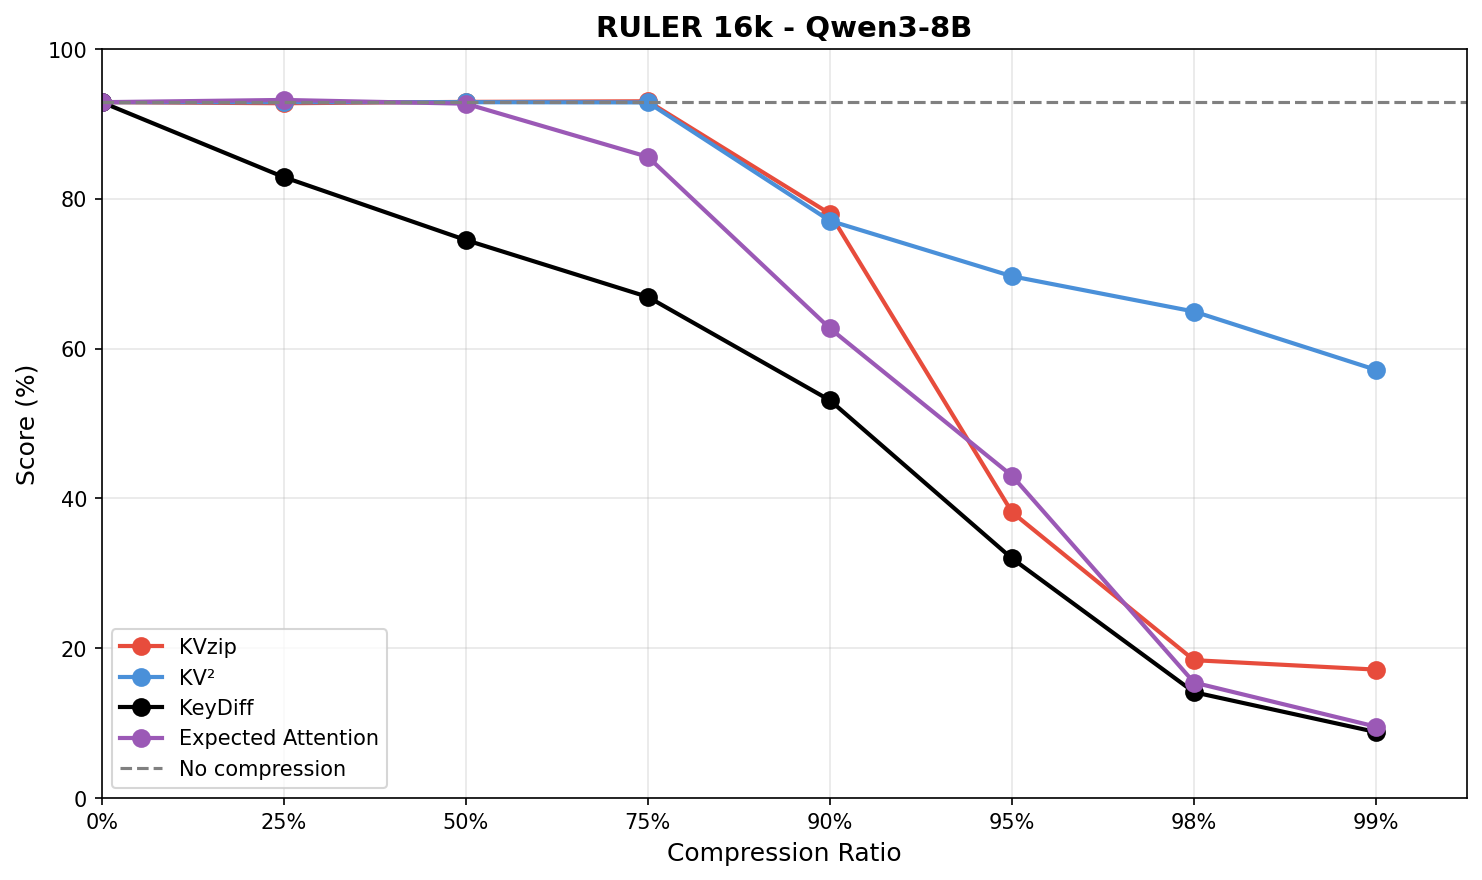
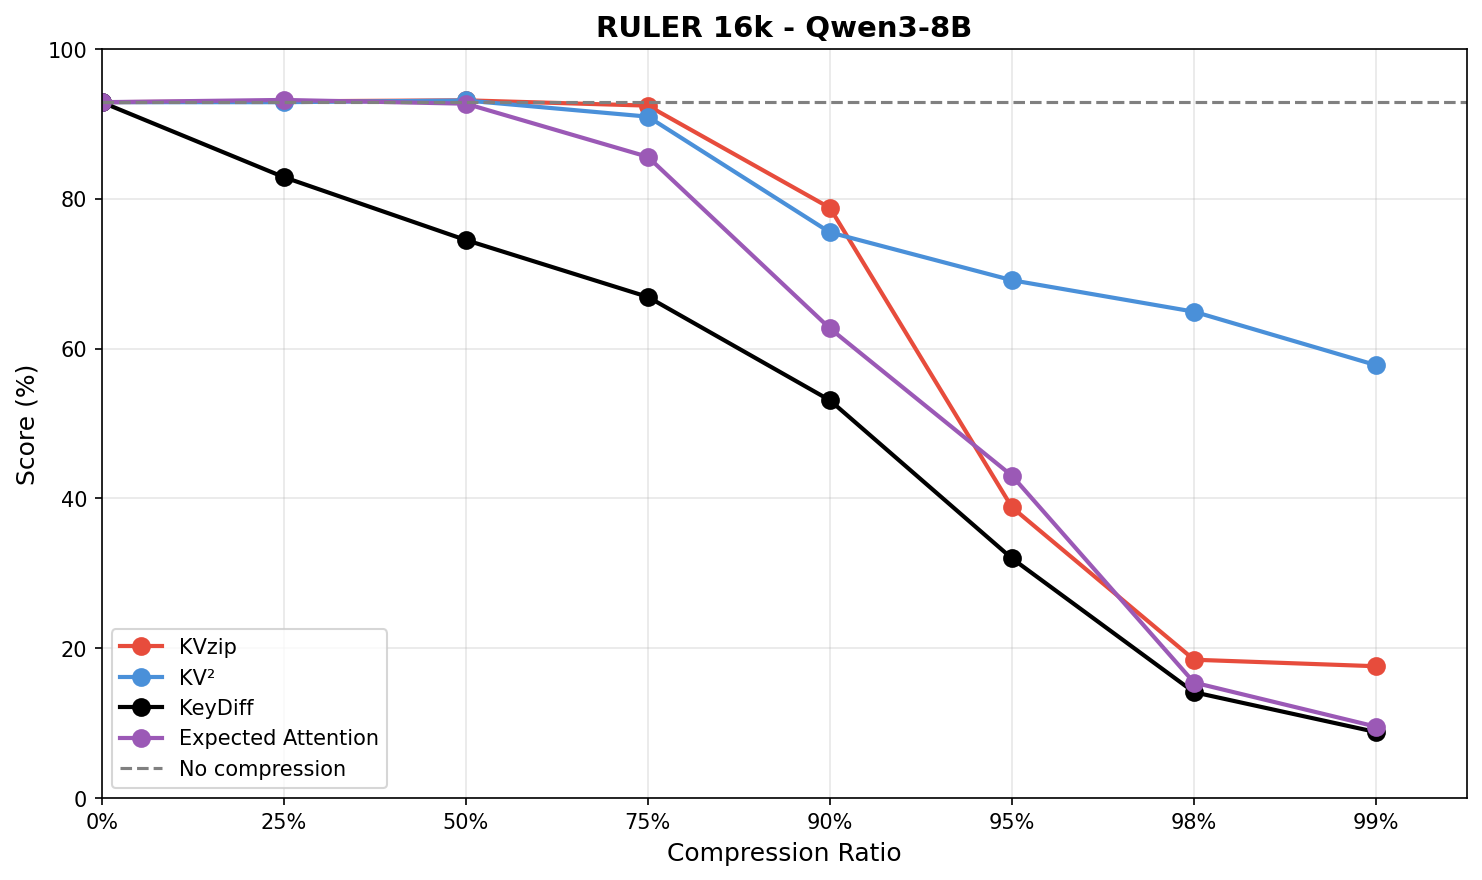
feat: update 16k plot

diff --git a/plots/plot_RULER_16k.py b/plots/plot_RULER_16k.py
@@ -14,23 +14,23 @@ import matplotlib.pyplot as plt
 DATA = {
     "KVzip": {
         0.0: 92.9,
-        0.25: 92.76,
-        0.5: 92.94,
-        0.75: 93.02,
-        0.9: 78.01,
-        0.95: 38.16,
-        0.98: 18.41,
-        0.99: 17.15
+        0.25: 93.01,
+        0.5: 93.15,
+        0.75: 92.44,
+        0.9: 78.79,
+        0.95: 38.81,
+        0.98: 18.47,
+        0.99: 17.6
     },
     "KV²": { # with kvsquared_2
         0.0: 92.9,
         0.25: 92.9,
-        0.5: 92.9,
-        0.75: 92.87,
-        0.9: 77.07,
-        0.95: 69.66,
-        0.98: 64.95,
-        0.99: 57.16,
+        0.5: 93.13,
+        0.75: 90.97,
+        0.9: 75.52,
+        0.95: 69.13,
+        0.98: 64.93,
+        0.99: 57.79,
     },
     # "KV² 3+": { # with kvsquared_3+
     #     0.0: 92.9,
